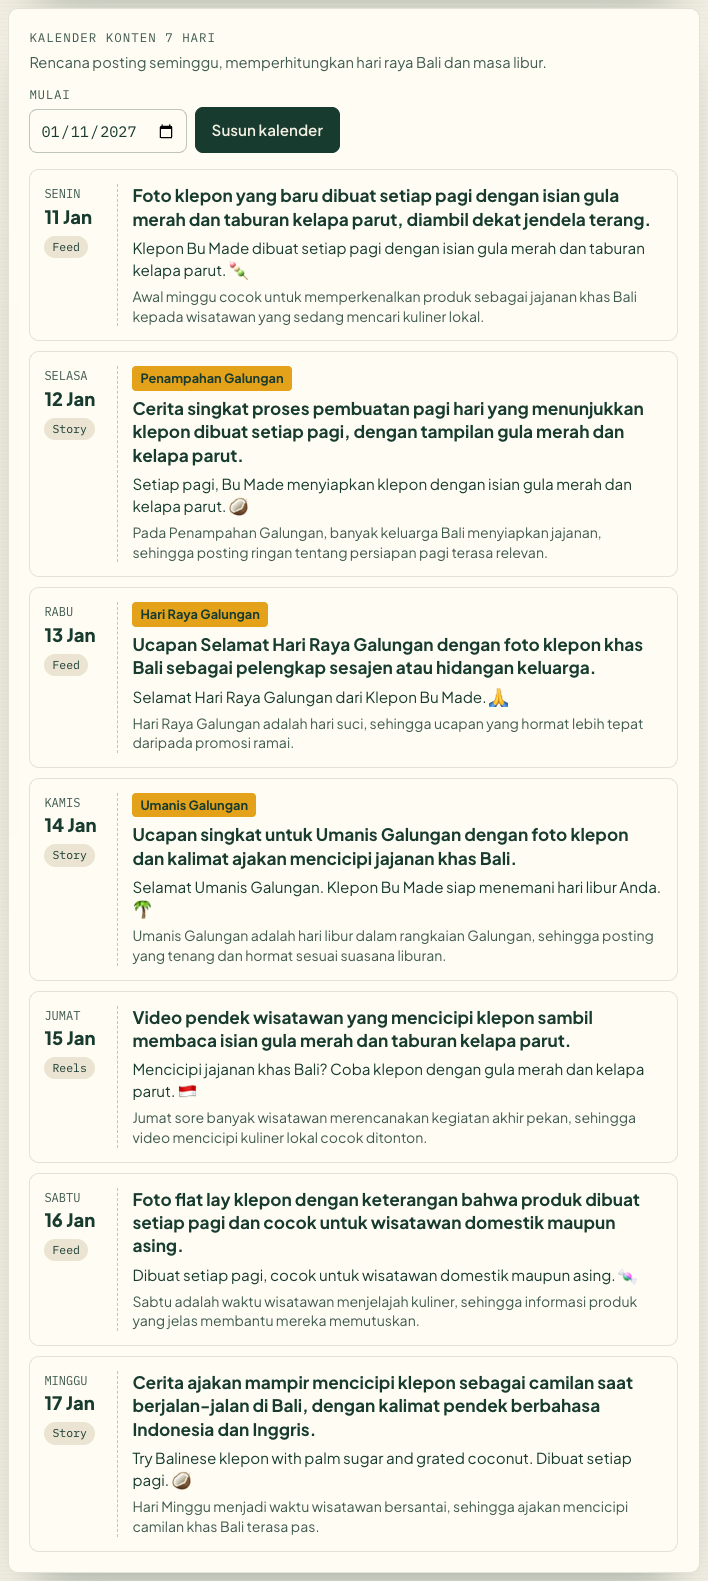
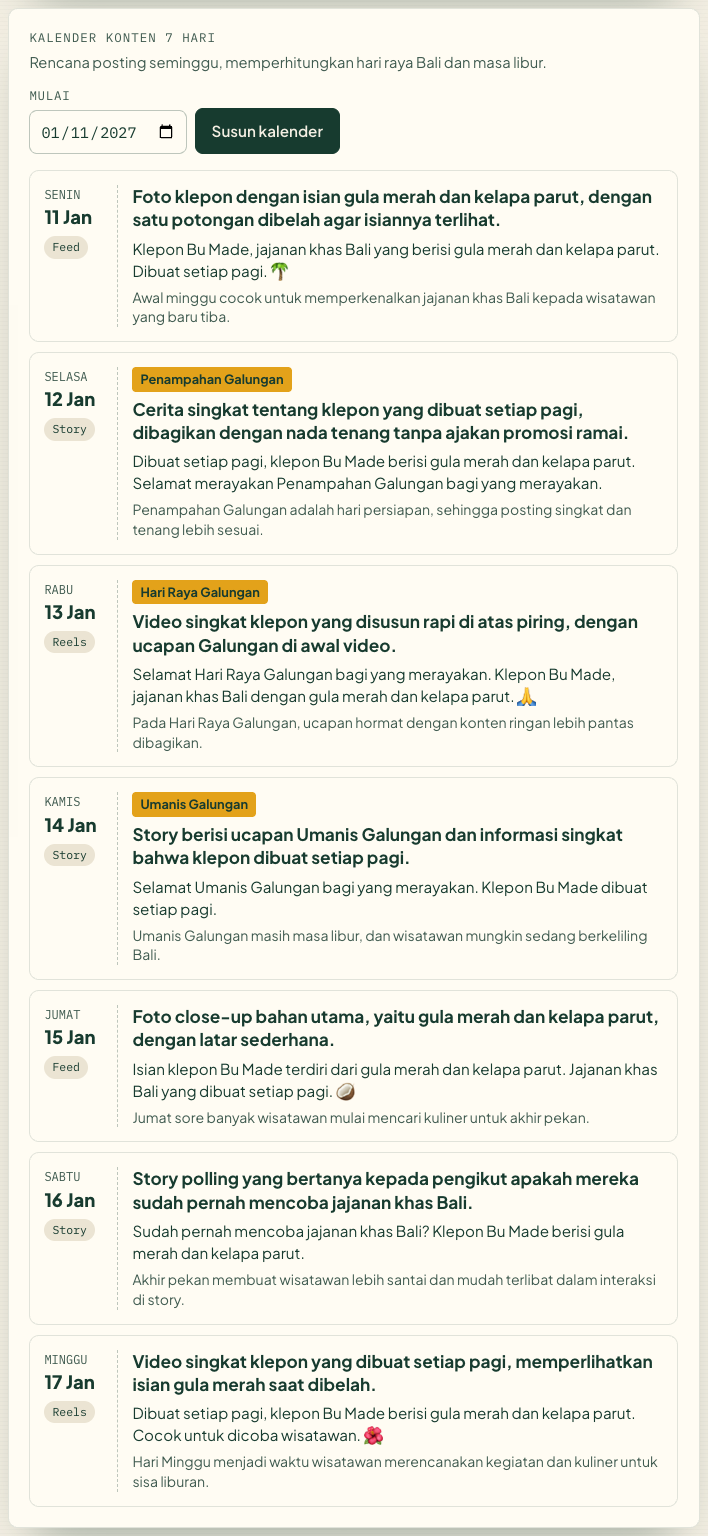
README dan AI disclosure: aturan hormat hari raya di kalender; tangkapan kalender diambil ulang

diff --git a/README.md b/README.md
@@ -148,7 +148,7 @@ AI adalah inti produk: tanpa model bahasa, aplikasi tidak bisa menyusun tulisan 
 - **Model utama**: Claude Haiku 5.5 (`claude-haiku-5-5`) lewat Claude API, dengan *structured output* (`output_config.format` dari skema Zod) dan effort `low` supaya cepat. Model yang sama membaca teks dan foto.
 - **Cadangan**: kalau Claude galat, menolak, atau `ANTHROPIC_API_KEY` kosong, server pindah ke Gemini dengan API key free tier dan skema yang sama (`responseJsonSchema`). Rantainya `gemini-3.5-flash`, `gemini-3.6-flash`, `gemini-3.5-flash-lite`, lalu `gemini-3.8-flash`. Model yang sibuk (503) dicoba ulang sekali, model yang kuotanya habis (429) langsung dilewati karena kuota free tier dihitung per model, setiap model diberi waktu 9 detik, dan total waktu tunggu dibatasi 25 detik. Pada Tahap 1, ketika Gemini masih menjadi penyedia utama, satu tulisan memakan 15–26 detik.
 - **Hemat panggilan**: satu klik memakai satu panggilan kecuali gagal, isian yang persis sama diambil dari cache `sessionStorage`, dan tombol dinonaktifkan selama permintaan berjalan. Kalau semua model penuh, pengguna mendapat pesan jujur dan tombol untuk melihat hasil berlabel Contoh; aplikasi tidak diam-diam menggantinya dengan contoh.
-- **Menjaga fakta**: instruksi sistem di fitur teks (generate, profil, balasan, kalender) melarang AI menambah fakta di luar isian, seperti asal-usul, sejarah keluarga, cara membuat, rasa atau kemasan yang tidak disebut, kelangkaan stok, promo, garansi, atau testimoni. Instruksi juga melarang kata klaim kosong dari daftar di `lib/klaim.js` (misalnya "terbaik", "enak", "murah", "stok terbatas", "berkualitas", "best") di teks, tagar, dan versi bahasa Inggris, serta tidak meneruskan klaim yang ditulis pengguna. Setelah jawaban datang, server memeriksa daftar kata itu, dengan tagar dipecah per kata. Kalau ada, server meminta ulang satu kali dengan pesan koreksi yang menyebut katanya. Kalau hasil kedua masih memuat klaim, hasil dikembalikan apa adanya, dan lembar suntingan menampilkan jumlah "klaim ditambahkan" dari daftar yang sama.
+- **Menjaga fakta**: instruksi sistem di fitur teks (generate, profil, balasan, kalender) melarang AI menambah fakta di luar isian, seperti asal-usul, sejarah keluarga, cara membuat, rasa atau kemasan yang tidak disebut, kelangkaan stok, promo, garansi, atau testimoni. Instruksi juga melarang kata klaim kosong dari daftar di `lib/klaim.js` (misalnya "terbaik", "enak", "murah", "stok terbatas", "berkualitas", "best") di teks, tagar, dan versi bahasa Inggris, serta tidak meneruskan klaim yang ditulis pengguna. Setelah jawaban datang, server memeriksa daftar kata itu, dengan tagar dipecah per kata. Kalau ada, server meminta ulang satu kali dengan pesan koreksi yang menyebut katanya. Kalau hasil kedua masih memuat klaim, hasil dikembalikan apa adanya, dan lembar suntingan menampilkan jumlah "klaim ditambahkan" dari daftar yang sama. Khusus kalender, instruksi meminta hari raya ditulis dengan hormat tanpa promosi ramai di hari suci, melarang sarana upacara seperti canang, banten, atau sesajen dijadikan properti atau latar foto produk, dan melarang menyebut produk dipakai untuk upacara kecuali tertulis di isian.
 - **Pengaman lain di server**: harga tanpa modal dipaksa 0/0, angka Foto Studio dijepit (penyesuaian warna -0,3 sampai 0,3, rotasi -10 sampai 10 derajat), batas Instagram ditegakkan (bio 150, nama 30, username 30 dengan huruf kecil, angka, titik, dan garis bawah, sorotan 15), dan kalau keunggulan kosong hanya ada satu penanda `[isi sendiri: bahan atau keunggulan]` di deskripsi singkat.
 - **Validasi**: jawaban AI diperiksa ulang dengan Zod. Jawaban yang tidak sesuai skema ditolak di server dan pengguna melihat pesan galat.
 - **Keamanan key**: `ANTHROPIC_API_KEY` dan `GEMINI_API_KEY` hanya dibaca di server. Peramban memanggil route API Wicara, bukan Claude atau Gemini secara langsung.

diff --git a/docs/AI-DISCLOSURE.md b/docs/AI-DISCLOSURE.md
@@ -21,6 +21,7 @@ Disusun mengikuti Lampiran C Panduan Peserta AI Web Innovation Challenge, Bali D
 ## Menjaga fakta dan klaim
 
 - Instruksi sistem melarang AI menambah fakta di luar isian pengguna (asal-usul, sejarah, cara membuat, rasa atau kemasan yang tidak disebut, kelangkaan stok, promo, garansi, testimoni, angka) dan melarang kata klaim kosong dari daftar di `lib/klaim.js`, termasuk di tagar dan teks bahasa Inggris.
+- Khusus kalender, instruksi meminta hari raya Bali ditulis dengan hormat tanpa promosi ramai di hari suci, melarang sarana upacara seperti canang, banten, atau sesajen dijadikan properti atau latar foto produk, dan melarang menyebut produk dipakai untuk upacara kecuali tertulis di isian. Aturan ini berupa instruksi, bukan pemeriksaan otomatis di server.
 - Kalau bahan atau keunggulan tidak diisi, server memastikan hanya ada satu penanda `[isi sendiri: bahan atau keunggulan]` di deskripsi singkat dan membuang kalimat yang membicarakan data yang belum ada.
 - Server memeriksa hasil generate, profil, balasan, dan kalender terhadap daftar itu. Kalau ada kata klaim, server meminta ulang sekali dengan pesan koreksi. Kalau masih ada, hasil dikembalikan apa adanya.
 - Lembar suntingan di aplikasi memakai daftar yang sama dan menampilkan jumlah "klaim ditambahkan" kepada pengguna. Pemeriksaan berbasis daftar kata ini tidak menangkap semua kalimat karangan, jadi pengguna tetap diminta membaca ulang sebelum mengunggah.
